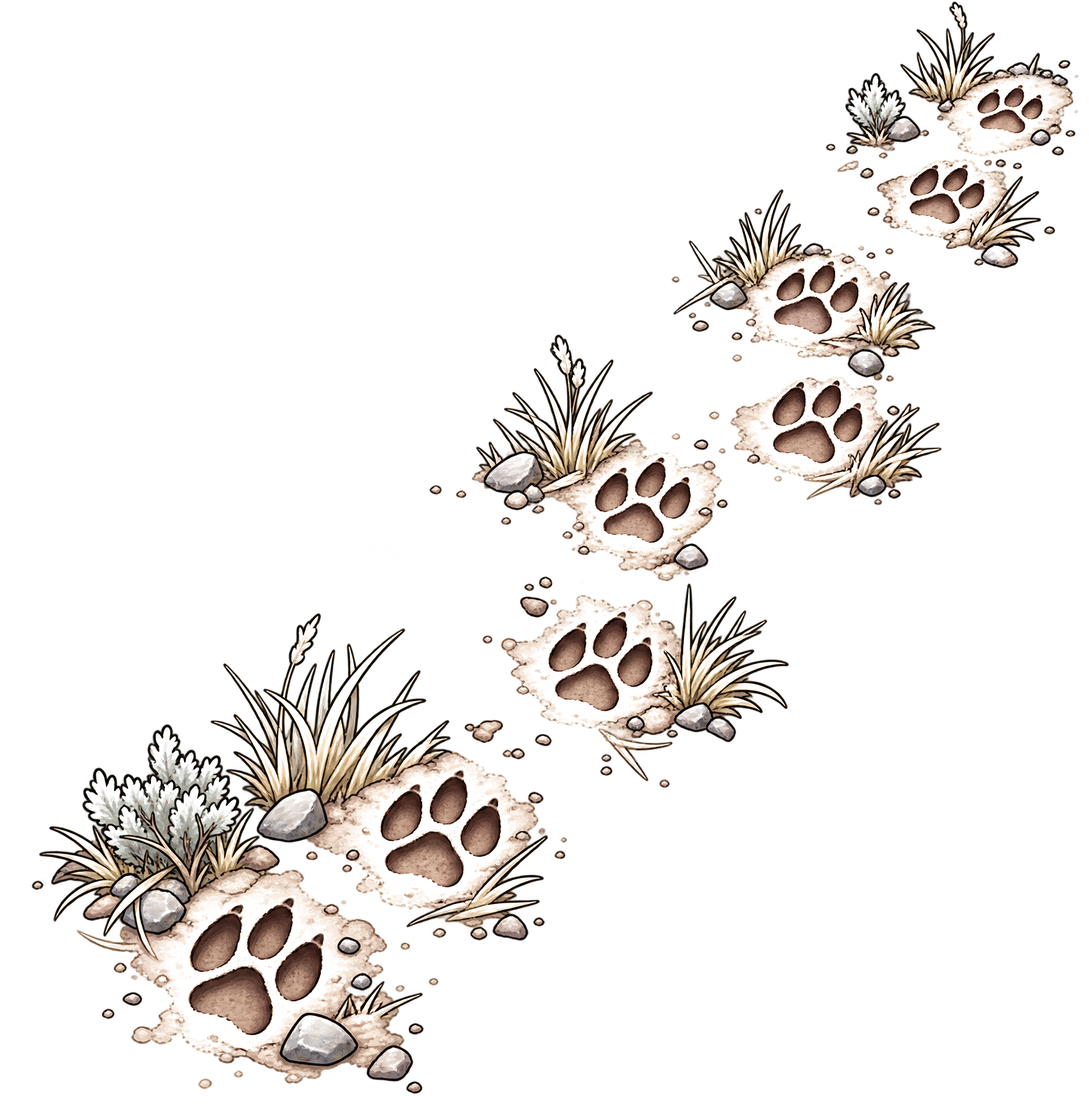
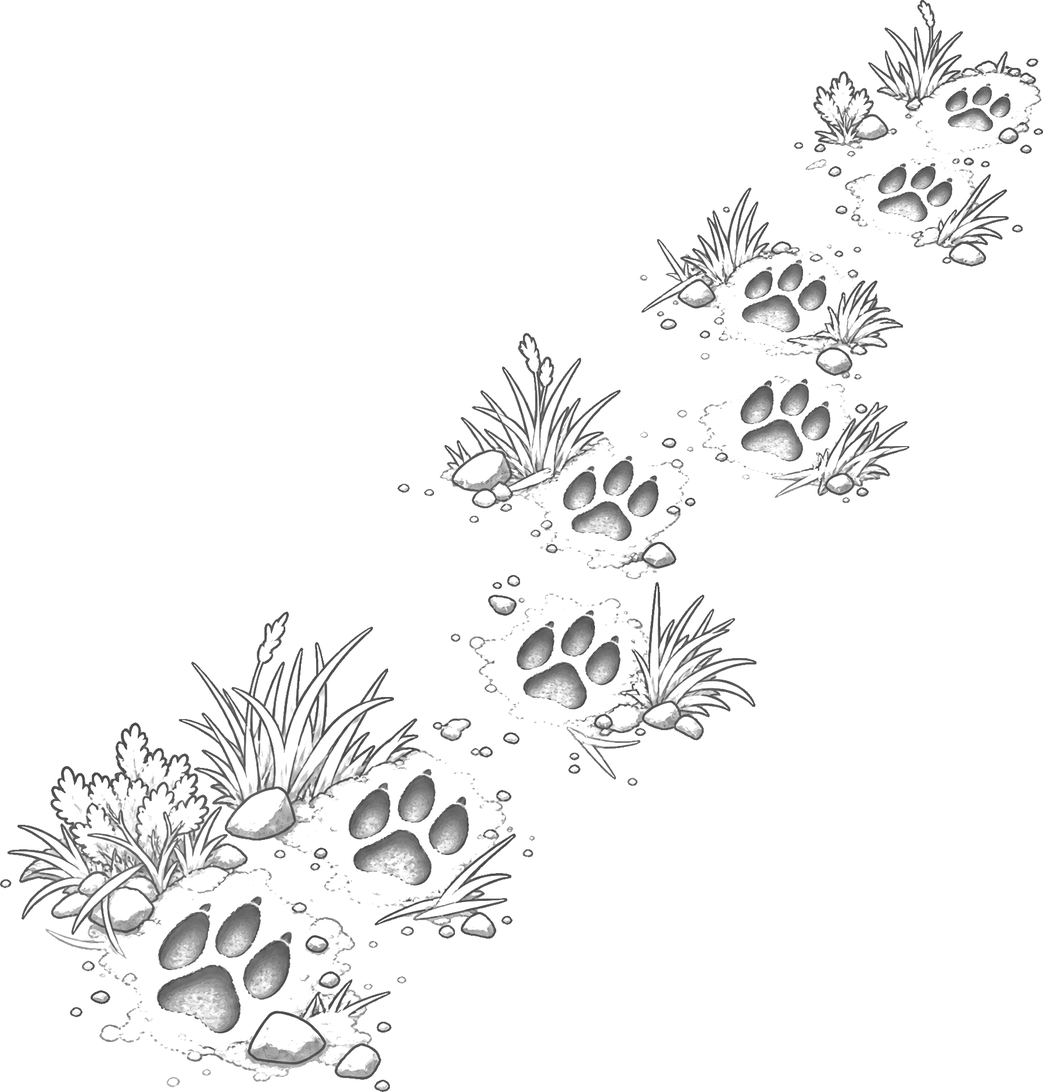
Pawprint clues: fix the multiply blend and rebuild every imprint prints-only
The imprint blend sat on the inner <img>, but .target carries opacity and
will-change, which isolates its children — so the sprite drew normally and every
pawprint clue read as a pale pasted patch. Blend moved onto .target itself.

Each *_imprint.png rebuilt with a local high-pass so only the pressed marks
survive (the painted sand/snow patch and its border stroke are gone), painted as
a pure darkening layer so it reads on snow, sand and rock. Hitboxes and anchors
recomputed so the prints keep the exact world size and position they had.

Level 3 scale pass (PM): camel bell 46->33px, sand timer 48->29px, tail keychain
45->27px, magnifier 30->18px, sketchbook 40->24px, measured against the trunk
(180px = 90cm) and the kneeling father (330px = 120cm); O8 nudged clear of fox_10.

Changed region(s): [[0.0, 0.0, 1.0, 1.0], [0.3432, 0.5553, 0.3744, 0.5862]]

diff --git a/index.html b/index.html
@@ -61,9 +61,12 @@
   /* render:"imprint" (PM 2026-09-04 「腳印要融入地面」): pawprint trails are pressed
      into the ground, not pasted on it — the sprite keeps only the dark impressions
      (imprint.py drops the light ground patch) and is multiplied onto the terrain;
-     no drop-shadow, no hidden-tier shrink, so nothing reads as a floating patch. */
-  .target.imprint{ filter:none; transform:translate(-50%,-50%); opacity:.95; }
-  .target.imprint img{ mix-blend-mode:multiply; }
+     no drop-shadow, no hidden-tier shrink, so nothing reads as a floating patch.
+     The blend must sit on .target itself: .target carries opacity/will-change,
+     which isolates its children, so a mix-blend-mode on the inner <img> would
+     blend against nothing and the sprite would show as a pale pasted patch. */
+  .target.imprint{ filter:none; transform:translate(-50%,-50%); opacity:1; mix-blend-mode:multiply; will-change:transform; }
+  .target.imprint img{ mix-blend-mode:normal; }
   .target.found{ pointer-events:none; }
 
   /* §1.2 (已拍板): found feedback = gold glow + star burst (~0.3-0.5s),
@@ -803,7 +806,7 @@
       { id:"obj_N3", target_type:"fox_object", species:"arctic_fox", sprite_asset: ASSET_DIR2_CLEAN + "N03_fox_totem_post.png", position:{x:2325,y:700}, hitbox:{width:100,height:364}, difficulty_tier:"exposed", placement_class:"ground_only", anchor_ref:"totem post driven upright into the snow near the ice cave entrance — standing on the snow floor at the foot of the cave mouth's left rim (solid base ≈ y855), right of husky 6's face box; adult-height per §2.9 (≈340 px at cave-mouth depth)", intended_scale_ref:"≈145cm，跟人物身高相若" },
       { id:"obj_N4", target_type:"fox_object", species:"arctic_fox", sprite_asset: ASSET_DIR2_CLEAN + "N04_fox_compass.png", position:{x:500,y:762}, hitbox:{width:40,height:34}, difficulty_tier:"partial", placement_class:"ground_only", anchor_ref:"lying open on top of a supply crate — on the lit top edge of the back plank of father's open supply crate, left of the mug", intended_scale_ref:"≈14cm，手掌至前臂長" },
       // ---- Tier C: partial clues (2) ----
-      { id:"clue_C1", render:"imprint", target_type:"partial_clue", species:"arctic_fox", sprite_asset: ASSET_DIR2_CLEAN + "C01_fox_pawprints_trail_imprint.png", position:{x:2470,y:950}, hitbox:{width:140,height:90}, difficulty_tier:"hidden", placement_class:"ground_only", anchor_ref:"pawprint trail leading toward the ice cave entrance — pressed into the snow between the family's bag and the cave-mouth crates, running up-right to the cave", intended_scale_ref:"≈48cm，及膝以下" },
+      { id:"clue_C1", render:"imprint", target_type:"partial_clue", species:"arctic_fox", sprite_asset: ASSET_DIR2_CLEAN + "C01_fox_pawprints_trail_imprint.png", position:{x:2470,y:948}, hitbox:{width:130,height:87}, difficulty_tier:"hidden", placement_class:"ground_only", anchor_ref:"pawprint trail leading toward the ice cave entrance — pressed into the snow between the family's bag and the cave-mouth crates, running up-right to the cave", intended_scale_ref:"≈48cm，及膝以下" },
       { id:"clue_C2", target_type:"partial_clue", species:"arctic_fox", sprite_asset: ASSET_DIR2_CLEAN + "C02_white_fox_tail_tip.png", position:{x:630,y:860}, hitbox:{width:90,height:60}, difficulty_tier:"hidden", placement_class:"ground_only", anchor_ref:"tail tip beneath a snowdrift near the cabin wall (own drift) — at the cabin's right wall base, right of father's crate under the firewood", intended_scale_ref:"≈31cm，及膝以下" }
     ]
   };
@@ -884,25 +887,25 @@
       // ---- Tier B reskin (9) — anchors PM-fixed in prompts-v3 (2) §B ----
       { id:"obj_O1", target_type:"fox_object", species:"fennec_fox", sprite_asset: ASSET_DIR3_V3_CLEAN + "find-the-fox-level3-O1-fox-face-mug.png", position:{x:330,y:1125}, hitbox:{width:45,height:45}, difficulty_tier:"exposed", placement_class:"ground_only", anchor_ref:"放喺爸爸腳邊嘅平滑沙岩石面 — on the front-left stone of the campfire ring, the smooth rock nearest father's side of the fire", intended_scale_ref:"mug ~12cm" },
       { id:"obj_O2", target_type:"fox_object", species:"fennec_fox", sprite_asset: ASSET_DIR3_V3_CLEAN + "find-the-fox-level3-O2-fox-cookie.png", position:{x:450,y:1135}, hitbox:{width:40,height:40}, difficulty_tier:"exposed", placement_class:"ground_only", anchor_ref:"放喺攤開嘅營地布上 — NOTE: the v3 background has no spread cloth at the camp; placed on the sand at the fire ring's right-front, the closest match (PM to confirm)", intended_scale_ref:"≈12cm，手掌至前臂長" },
-      { id:"obj_O3", target_type:"fox_object", species:"fennec_fox", sprite_asset: ASSET_DIR3_V3_CLEAN + "find-the-fox-level3-O3-fox-tail-keychain.png", position:{x:400,y:665}, hitbox:{width:30,height:45}, difficulty_tier:"partial", placement_class:"elevated_ok", anchor_ref:"掛喺行李袋嘅背帶扣 — clipped to the strap of the right-hand barrel pack by the rock; its own carabiner is the §2.3 connector", intended_scale_ref:"≈14cm，手掌至前臂長" },
+      { id:"obj_O3", target_type:"fox_object", species:"fennec_fox", sprite_asset: ASSET_DIR3_V3_CLEAN + "find-the-fox-level3-O3-fox-tail-keychain.png", position:{x:400,y:656}, hitbox:{width:18,height:27}, difficulty_tier:"partial", placement_class:"elevated_ok", anchor_ref:"掛喺行李袋嘅背帶扣 — clipped to the strap of the right-hand barrel pack by the rock; its own carabiner is the §2.3 connector", intended_scale_ref:"≈14cm，手掌至前臂長（2026-09-05 縮細：岩石堆深度 1.95px/cm）" },
       { id:"obj_O4", target_type:"fox_object", species:"fennec_fox", sprite_asset: ASSET_DIR3_V3_CLEAN + "find-the-fox-level3-O4-knitted-plush.png", position:{x:1095,y:1125}, hitbox:{width:55,height:60}, difficulty_tier:"exposed", placement_class:"ground_only", anchor_ref:"靠住石井邊沿坐低 — back against the well's front-left stones (moved up-right from (1075,1150), which sat on open sand a step away from the well)", intended_scale_ref:"≈18cm，手掌至前臂長" },
       { id:"obj_O5", target_type:"fox_object", species:"fennec_fox", sprite_asset: ASSET_DIR3_V3_CLEAN + "find-the-fox-level3-O5-fox-pattern-thermos.png", position:{x:1420,y:1075}, hitbox:{width:34,height:70}, difficulty_tier:"exposed", placement_class:"ground_only", anchor_ref:"企喺綠洲水池邊 — standing on the pool's near bank rocks", intended_scale_ref:"≈21cm，手掌至前臂長" },
       { id:"obj_O6", target_type:"fox_object", species:"fennec_fox", sprite_asset: ASSET_DIR3_V3_CLEAN + "find-the-fox-level3-O6-fox-salt-pepper-shakers.png", position:{x:1015,y:790}, hitbox:{width:40,height:36}, difficulty_tier:"partial", placement_class:"ground_only", anchor_ref:"塞入棕櫚樹根縫隙 — tucked into the lower edge of the shrub at the rear palm's foot (the roots themselves are hidden by the shrub; the big palm's base is occupied by mother and child, §2.7) (the big palm's base is occupied by mother and child, §2.7)", intended_scale_ref:"≈12cm，手掌至前臂長" },
       { id:"obj_O7", target_type:"fox_object", species:"fennec_fox", sprite_asset: ASSET_DIR3_V3_CLEAN + "find-the-fox-level3-O7-fox-pattern-scarf.png", position:{x:2380,y:1140}, hitbox:{width:90,height:70}, difficulty_tier:"partial", placement_class:"ground_only", anchor_ref:"搭喺破爛木頭車輪上 — draped over the leaning cart wheel's upper rim", intended_scale_ref:"≈27cm，手掌至前臂長" },
-      { id:"obj_O8", target_type:"fox_object", species:"fennec_fox", sprite_asset: ASSET_DIR3_V3_CLEAN + "find-the-fox-level3-O8-fox-wind-chime.png", position:{x:2478,y:700}, hitbox:{width:55,height:120}, difficulty_tier:"exposed", placement_class:"elevated_ok", anchor_ref:"掛喺木製燈籠柱嘅掛鉤 — its top ring on the post's awning-rope tie hook (the arm's end already carries the real lantern + fox_10)", intended_scale_ref:"chime ~36cm" },
+      { id:"obj_O8", target_type:"fox_object", species:"fennec_fox", sprite_asset: ASSET_DIR3_V3_CLEAN + "find-the-fox-level3-O8-fox-wind-chime.png", position:{x:2488,y:700}, hitbox:{width:55,height:120}, difficulty_tier:"exposed", placement_class:"elevated_ok", anchor_ref:"掛喺木製燈籠柱嘅掛鉤 — its top ring on the post's awning-rope tie hook (the arm's end already carries the real lantern + fox_10)", intended_scale_ref:"chime ~36cm" },
       { id:"obj_O9", target_type:"fox_object", species:"fennec_fox", sprite_asset: ASSET_DIR3_V3_CLEAN + "find-the-fox-level3-O9-fox-field-guide.png", position:{x:1780,y:1120}, hitbox:{width:55,height:50}, difficulty_tier:"partial", placement_class:"ground_only", anchor_ref:"半掩喺散落石堆之間 — lying beside the Zone 3 stone pile", intended_scale_ref:"≈17cm，手掌至前臂長" },
 
       // ---- Tier B desert-only (4) — anchors PM-fixed in prompts-v3 (2) §B ----
       { id:"obj_N1", target_type:"fox_object", species:"fennec_fox", sprite_asset: ASSET_DIR3_V3_CLEAN + "find-the-fox-level3-N1-astrolabe-pendant.png", position:{x:1400,y:400}, hitbox:{width:40,height:52}, difficulty_tier:"partial", placement_class:"elevated_ok", anchor_ref:"掛喺搖曳嘅棕櫚葉度 — its top ring touching the tip of the big palm's lowest right frond (raised 20px — at y445 there was a sliver of sky between ring and frond) (§2.3 connector = the frond tip)", intended_scale_ref:"≈16cm，手掌至前臂長" },
-      { id:"obj_N2", target_type:"fox_object", species:"fennec_fox", sprite_asset: ASSET_DIR3_V3_CLEAN + "find-the-fox-level3-N2-camel-bell.png", position:{x:330,y:985}, hitbox:{width:34,height:46}, difficulty_tier:"exposed", placement_class:"elevated_ok", anchor_ref:"直接掛喺休息嗰隻駱駝嘅頸繩上 — its rope loop on the resting camel's neck rope just under the jaw; the loop is the §2.3 connector", intended_scale_ref:"≈14cm，手掌至前臂長" },
+      { id:"obj_N2", target_type:"fox_object", species:"fennec_fox", sprite_asset: ASSET_DIR3_V3_CLEAN + "find-the-fox-level3-N2-camel-bell.png", position:{x:330,y:978}, hitbox:{width:24,height:33}, difficulty_tier:"exposed", placement_class:"elevated_ok", anchor_ref:"直接掛喺休息嗰隻駱駝嘅頸繩上 — its rope loop on the resting camel's neck rope just under the jaw; the loop is the §2.3 connector", intended_scale_ref:"≈14cm，手掌至前臂長" },
       { id:"obj_N3", target_type:"fox_object", species:"fennec_fox", sprite_asset: ASSET_DIR3_V3_CLEAN + "find-the-fox-level3-N3-bedouin-fox-rug.png", position:{x:1900,y:1200}, hitbox:{width:110,height:70}, difficulty_tier:"partial", placement_class:"ground_only", anchor_ref:"半埋喺舊營址嘅沙地 — on the sand at the campsite's stone-pile edge", intended_scale_ref:"≈33cm，及膝以下" },
-      { id:"obj_N4", target_type:"fox_object", species:"fennec_fox", sprite_asset: ASSET_DIR3_V3_CLEAN + "find-the-fox-level3-N4-sand-timer.png", position:{x:300,y:610}, hitbox:{width:30,height:48}, difficulty_tier:"hidden", placement_class:"ground_only", anchor_ref:"塞入行李袋背後嘅罅隙 — in the gap between the rolled tent and the barrel pack, behind the packs", intended_scale_ref:"≈15cm，手掌至前臂長" },
+      { id:"obj_N4", target_type:"fox_object", species:"fennec_fox", sprite_asset: ASSET_DIR3_V3_CLEAN + "find-the-fox-level3-N4-sand-timer.png", position:{x:300,y:626}, hitbox:{width:18,height:29}, difficulty_tier:"hidden", placement_class:"ground_only", anchor_ref:"塞入行李袋背後嘅罅隙 — in the gap between the rolled tent and the barrel pack, behind the packs", intended_scale_ref:"≈15cm，手掌至前臂長" },
 
       // ---- Tier C (3) — anchors PM-fixed in prompts-v3 (2) §C ----
       // ---- §2.2.1 explorer gear fillers — the PM-flagged low-density spot (rock outcrop, Zone 1) ----
-      { id:"obj_E1", target_type:"fox_object", species:"fennec_fox", sprite_asset: ASSET_DIR_GEAR + "E01_fox_emblem_magnifying_glass.png", position:{x:355,y:590}, hitbox:{width:34,height:30}, difficulty_tier:"exposed", placement_class:"ground_only", anchor_ref:"E1 放喺補給箱頂（岩石尖峰旁）— on the top of the big barrel pack under the rock outcrop, right of the rolled tent (first try at y558 sat on the rock face above the pack)", intended_scale_ref:"≈10cm，細過人物手掌" },
-      { id:"obj_E3", target_type:"fox_object", species:"fennec_fox", sprite_asset: ASSET_DIR_GEAR + "E03_open_field_sketchbook_fox.png", position:{x:470,y:690}, hitbox:{width:55,height:40}, difficulty_tier:"partial", placement_class:"ground_only", anchor_ref:"E3 靠住繩圈（岩石尖峰底）— NOTE: no coiled rope in the v3 painting; lying on the sand at the outcrop's foot beside the small barrel pack (PM to confirm)", intended_scale_ref:"≈17cm，手掌至前臂長" },
-      { id:"clue_C1", render:"imprint", target_type:"partial_clue", species:"fennec_fox", sprite_asset: ASSET_DIR3_V3_CLEAN + "find-the-fox-level3-C1-fox-pawprints_imprint.png", position:{x:660,y:1190}, hitbox:{width:200,height:140}, difficulty_tier:"hidden", placement_class:"ground_only", anchor_ref:"營火周圍嘅沙地 — trail on the sand right-front of the campfire", intended_scale_ref:"≈61cm，及腰" },
+      { id:"obj_E1", target_type:"fox_object", species:"fennec_fox", sprite_asset: ASSET_DIR_GEAR + "E01_fox_emblem_magnifying_glass.png", position:{x:355,y:584}, hitbox:{width:20,height:18}, difficulty_tier:"exposed", placement_class:"ground_only", anchor_ref:"E1 放喺補給箱頂（岩石尖峰旁）— on the top of the big barrel pack under the rock outcrop, right of the rolled tent (first try at y558 sat on the rock face above the pack)", intended_scale_ref:"≈10cm，細過人物手掌" },
+      { id:"obj_E3", target_type:"fox_object", species:"fennec_fox", sprite_asset: ASSET_DIR_GEAR + "E03_open_field_sketchbook_fox.png", position:{x:470,y:684}, hitbox:{width:33,height:24}, difficulty_tier:"partial", placement_class:"ground_only", anchor_ref:"E3 靠住繩圈（岩石尖峰底）— NOTE: no coiled rope in the v3 painting; lying on the sand at the outcrop's foot beside the small barrel pack (PM to confirm)", intended_scale_ref:"≈17cm，手掌至前臂長" },
+      { id:"clue_C1", render:"imprint", target_type:"partial_clue", species:"fennec_fox", sprite_asset: ASSET_DIR3_V3_CLEAN + "find-the-fox-level3-C1-fox-pawprints_imprint.png", position:{x:661,y:1190}, hitbox:{width:110,height:129}, difficulty_tier:"hidden", placement_class:"ground_only", anchor_ref:"營火周圍嘅沙地 — trail on the sand right-front of the campfire", intended_scale_ref:"≈61cm，及腰" },
       { id:"clue_C2", target_type:"partial_clue", species:"fennec_fox", sprite_asset: ASSET_DIR3_V3_CLEAN + "find-the-fox-level3-C2-fox-ear-tips.png", position:{x:1120,y:610}, hitbox:{width:50,height:40}, difficulty_tier:"hidden", placement_class:"ground_only", anchor_ref:"棕櫚樹幹背後 — ears at the big palm trunk's left edge, above mother's head (the trunk base is occupied by mother and child, §2.7)", intended_scale_ref:"≈15cm，手掌至前臂長" },
       { id:"clue_C3", target_type:"partial_clue", species:"fennec_fox", sprite_asset: ASSET_DIR3_V3_CLEAN + "find-the-fox-level3-C3-fox-tail-tip.png", position:{x:2270,y:1330}, hitbox:{width:45,height:40}, difficulty_tier:"hidden", placement_class:"ground_only", anchor_ref:"破爛木頭車輪底部 — under the fallen wheel's lower-left rim where it meets the sand", intended_scale_ref:"≈14cm，手掌至前臂長" }
     ]
@@ -1013,7 +1016,7 @@
       // ---- §2.2.1 explorer gear fillers — the PM-flagged low-density spot (shrine surroundings, Zone 2) ----
       { id:"obj_E5", target_type:"fox_object", species:"tibetan_sand_fox", sprite_asset: ASSET_DIR_GEAR + "E05_pressed_flower_album_fox_ribbon.png", position:{x:1115,y:425}, hitbox:{width:36,height:40}, difficulty_tier:"partial", placement_class:"ground_only", anchor_ref:"E5 放喺神龕邊 — leaning at the right foot of the stone shrine, on the rocks beside the mani-stone pile", intended_scale_ref:"≈25cm，手掌至前臂長" },
       { id:"obj_E6", target_type:"fox_object", species:"tibetan_sand_fox", sprite_asset: ASSET_DIR_GEAR + "E06_rolled_map_fox_wax_seal.png", position:{x:1005,y:400}, hitbox:{width:44,height:26}, difficulty_tier:"exposed", placement_class:"ground_only", anchor_ref:"E6 放喺岩石平台 — lying on the left end of the shrine's stone base slab, beside the mani-stone pile", intended_scale_ref:"≈27cm，手掌至前臂長" },
-      { id:"clue_C1", render:"imprint", target_type:"partial_clue", species:"tibetan_sand_fox", sprite_asset: ASSET_DIR4 + "C1_fox_paw_footprints (2)_imprint.png", position:{x:545,y:620}, hitbox:{width:110,height:150}, difficulty_tier:"hidden", placement_class:"ground_only", anchor_ref:"trail crossing the open dirt between the camp and the stream", intended_scale_ref:"three prints running about a metre of ground; sprite is portrait, so the box is too" },
+      { id:"clue_C1", render:"imprint", target_type:"partial_clue", species:"tibetan_sand_fox", sprite_asset: ASSET_DIR4 + "C1_fox_paw_footprints (2)_imprint.png", position:{x:542,y:620}, hitbox:{width:66,height:104}, difficulty_tier:"hidden", placement_class:"ground_only", anchor_ref:"trail crossing the open dirt between the camp and the stream", intended_scale_ref:"three prints running about a metre of ground; sprite is portrait, so the box is too" },
       { id:"clue_C2", target_type:"partial_clue", species:"tibetan_sand_fox", sprite_asset: ASSET_DIR4 + "C2_fox_tail_tip_flags (2).png", position:{x:900,y:300}, hitbox:{width:95,height:110}, difficulty_tier:"hidden", placement_class:"elevated_ok", anchor_ref:"the sprite carries its own rope, laid along the real prayer-flag line in front of the shrine so the two ropes read as one (§2.3 connector)" },
       { id:"clue_C3", target_type:"partial_clue", species:"tibetan_sand_fox", sprite_asset: ASSET_DIR4 + "C3_fox_shadow_hut_wall (3).png", position:{x:1290,y:320}, hitbox:{width:150,height:180}, difficulty_tier:"hidden", placement_class:"ground_only", anchor_ref:"its own wall slice laid onto the hut's real stone wall left of the door, base rocks landing on the real ground line; kept clear of the boy (§2.7)", intended_scale_ref:"a wall patch about the boy's height" },
       { id:"clue_C4", target_type:"partial_clue", species:"tibetan_sand_fox", sprite_asset: ASSET_DIR4 + "C4_fox_ears_fog (3).png", position:{x:1300,y:790}, hitbox:{width:240,height:170}, difficulty_tier:"hidden", placement_class:"ground_only", anchor_ref:"ears breaking the surface of the real fog bank rolling across the lower-right foreground", intended_scale_ref:"ears ~15cm, so the whole fog patch runs about 1.5m wide" }
@@ -1103,7 +1106,7 @@
       { id:"obj_N6", target_type:"fox_object", species:"corsac_fox", sprite_asset: ASSET_DIR5 + "N6_felt_fox_doll.png", position:{x:960,y:985}, hitbox:{width:55,height:55}, difficulty_tier:"partial", placement_class:"ground_only", anchor_ref:"塞入氈毯嘅摺痕 — in the rumpled left fringe of the rug" },
 
       // ---- Tier C (5) — anchors PM-fixed in prompts-v3 §C ----
-      { id:"clue_C1", render:"imprint", target_type:"partial_clue", species:"corsac_fox", sprite_asset: ASSET_DIR5 + "C1_fox_pawprints_imprint.png", position:{x:760,y:810}, hitbox:{width:130,height:90}, difficulty_tier:"hidden", placement_class:"ground_only", anchor_ref:"蒙古包門口嘅泥地 — on the dirt directly below the door step" },
+      { id:"clue_C1", render:"imprint", target_type:"partial_clue", species:"corsac_fox", sprite_asset: ASSET_DIR5 + "C1_fox_pawprints_imprint.png", position:{x:760,y:810}, hitbox:{width:84,height:88}, difficulty_tier:"hidden", placement_class:"ground_only", anchor_ref:"蒙古包門口嘅泥地 — on the dirt directly below the door step" },
       { id:"clue_C2", target_type:"partial_clue", species:"corsac_fox", sprite_asset: ASSET_DIR5 + "C2_fox_tail_tip.png", position:{x:935,y:1010}, hitbox:{width:60,height:50}, difficulty_tier:"hidden", placement_class:"ground_only", anchor_ref:"氈毯邊沿底下 — under the rug's left fringe" },
       { id:"clue_C3", target_type:"partial_clue", species:"corsac_fox", sprite_asset: ASSET_DIR5 + "C3_fox_ears_behind_rock.png", position:{x:2320,y:700}, hitbox:{width:55,height:50}, difficulty_tier:"hidden", placement_class:"ground_only", anchor_ref:"石頭背後 — ears above the top edge of the outcrop's left base boulder" },
       { id:"clue_C4", target_type:"partial_clue", species:"corsac_fox", sprite_asset: ASSET_DIR5 + "C4_fox_shadow.png", position:{x:880,y:620}, hitbox:{width:90,height:120}, difficulty_tier:"hidden", placement_class:"elevated_ok", anchor_ref:"蒙古包氈牆表面 — on the felt wall to the RIGHT of the door; the left wall is blocked by father's and the horse's heads (§2.7)" },
@@ -1190,7 +1193,7 @@
       { id:"obj_N5", target_type:"fox_object", species:"pale_fox", sprite_asset: ASSET_DIR6_CLEAN + "N05_fox_ear_feather_headdress_termite_mound.png", position:{x:2070,y:690}, hitbox:{width:80,height:60}, difficulty_tier:"hidden", placement_class:"ground_only", anchor_ref:"塞入白蟻丘背後 — at the left foot of the main mound, tucked against its base", intended_scale_ref:"≈26cm，手掌至前臂長" },
       { id:"obj_N6", target_type:"fox_object", species:"pale_fox", sprite_asset: ASSET_DIR6_CLEAN + "N06_wooden_drum_fox_pattern_baobab_roots.png", position:{x:1690,y:655}, hitbox:{width:70,height:80}, difficulty_tier:"partial", placement_class:"ground_only", anchor_ref:"靠住猴麵包樹根 — leaning on the right-hand baobab root", intended_scale_ref:"≈26cm，手掌至前臂長" },
       // ---- Tier C: partial clues (6) ----
-      { id:"clue_C1", render:"imprint", target_type:"partial_clue", species:"pale_fox", sprite_asset: ASSET_DIR6_CLEAN + "C01_fox_pawprints_red_earth_imprint.png", position:{x:420,y:1250}, hitbox:{width:150,height:100}, difficulty_tier:"hidden", placement_class:"ground_only", anchor_ref:"攤檔周圍嘅紅土地 — dust patch with prints on the earth below the grass tufts, right of the stall", intended_scale_ref:"≈48cm，及膝以下" },
+      { id:"clue_C1", render:"imprint", target_type:"partial_clue", species:"pale_fox", sprite_asset: ASSET_DIR6_CLEAN + "C01_fox_pawprints_red_earth_imprint.png", position:{x:423,y:1250}, hitbox:{width:96,height:94}, difficulty_tier:"hidden", placement_class:"ground_only", anchor_ref:"攤檔周圍嘅紅土地 — dust patch with prints on the earth below the grass tufts, right of the stall", intended_scale_ref:"≈48cm，及膝以下" },
       { id:"clue_C2", target_type:"partial_clue", species:"pale_fox", sprite_asset: ASSET_DIR6_CLEAN + "C02_oversized_fox_ears_tall_grass.png", position:{x:1640,y:700}, hitbox:{width:110,height:90}, difficulty_tier:"hidden", placement_class:"ground_only", anchor_ref:"高身金黃草叢 — its own grass on the tall golden grass behind goat 1", intended_scale_ref:"≈35cm，及膝以下" },
       { id:"clue_C3", target_type:"partial_clue", species:"pale_fox", sprite_asset: ASSET_DIR6_CLEAN + "C03_fox_tail_tip_termite_mound.png", position:{x:2230,y:700}, hitbox:{width:80,height:80}, difficulty_tier:"hidden", placement_class:"ground_only", anchor_ref:"白蟻丘表面罅隙 — its own crevice set on the main mound's lower face", intended_scale_ref:"≈26cm，手掌至前臂長" },
       { id:"clue_C4", target_type:"partial_clue", species:"pale_fox", sprite_asset: ASSET_DIR6_CLEAN + "C04_fox_shadow_cracked_mud.png", position:{x:1550,y:1290}, hitbox:{width:110,height:90}, difficulty_tier:"hidden", placement_class:"ground_only", anchor_ref:"乾裂泥地表面 — shadow on the cracked mud below the water", intended_scale_ref:"≈35cm，及膝以下" },
@@ -1267,12 +1270,12 @@
       { id:"obj_N5", target_type:"fox_object", species:"ruppells_fox", sprite_asset: ASSET_DIR7_CLEAN + "N05_fox_constellation_astrolabe.png", position:{x:1060,y:800}, hitbox:{width:40,height:40}, difficulty_tier:"hidden", placement_class:"ground_only", anchor_ref:"半埋喺廢墟旁邊嘅沙地 — in the mound sand below the left ruin wall", intended_scale_ref:"≈16cm，手掌至前臂長" },
       { id:"obj_N6", target_type:"fox_object", species:"ruppells_fox", sprite_asset: ASSET_DIR7_CLEAN + "N06_fox_spice_jar_second_fire.png", position:{x:2200,y:1170}, hitbox:{width:30,height:45}, difficulty_tier:"exposed", placement_class:"ground_only", anchor_ref:"放喺平石面近第二個火堆 — on the flat stone left of the ember fire", intended_scale_ref:"≈18cm，手掌至前臂長" },
       // ---- Tier C: partial clues (7) ----
-      { id:"clue_C1", render:"imprint", target_type:"partial_clue", species:"ruppells_fox", sprite_asset: ASSET_DIR7_CLEAN + "C01_fox_pawprints_campfire_sand_imprint.png", position:{x:380,y:1200}, hitbox:{width:150,height:100}, difficulty_tier:"hidden", placement_class:"ground_only", anchor_ref:"營火周圍嘅細沙 — dust patch with prints on the sand right of father's boots (the sand directly under the fire ring is rock)", intended_scale_ref:"≈61cm，及腰" },
+      { id:"clue_C1", render:"imprint", target_type:"partial_clue", species:"ruppells_fox", sprite_asset: ASSET_DIR7_CLEAN + "C01_fox_pawprints_campfire_sand_imprint.png", position:{x:377,y:1200}, hitbox:{width:80,height:95}, difficulty_tier:"hidden", placement_class:"ground_only", anchor_ref:"營火周圍嘅細沙 — dust patch with prints on the sand right of father's boots (the sand directly under the fire ring is rock)", intended_scale_ref:"≈61cm，及腰" },
       { id:"clue_C2", target_type:"partial_clue", species:"ruppells_fox", sprite_asset: ASSET_DIR7_CLEAN + "C02_black_white_tail_tip_archway.png", position:{x:1612,y:745}, hitbox:{width:40,height:45}, difficulty_tier:"hidden", placement_class:"ground_only", anchor_ref:"石拱門背後 — tail tip out at the outer edge of the arch's right pillar", intended_scale_ref:"≈18cm，手掌至前臂長" },
       { id:"clue_C3", target_type:"partial_clue", species:"ruppells_fox", sprite_asset: ASSET_DIR7_CLEAN + "C03_fox_shadow_jagged_rock.png", position:{x:2130,y:640}, hitbox:{width:110,height:130}, difficulty_tier:"hidden", placement_class:"elevated_ok", anchor_ref:"尖角岩石表面 — the sprite's own jagged rock (with the moon shadow) set at the foot of the rock formation", intended_scale_ref:"≈53cm，及膝以下" },
       { id:"clue_C4", target_type:"partial_clue", species:"ruppells_fox", sprite_asset: ASSET_DIR7_CLEAN + "C04_fox_ears_ruins_crack.png", position:{x:1660,y:620}, hitbox:{width:36,height:20}, difficulty_tier:"hidden", placement_class:"ground_only", anchor_ref:"廢墟牆身裂縫 — ears out of a crack in the right ruin wall", intended_scale_ref:"≈15cm，手掌至前臂長" },
       { id:"clue_C5", target_type:"partial_clue", species:"ruppells_fox", sprite_asset: ASSET_DIR7_CLEAN + "C05_fox_nose_whiskers_saddlebags.png", position:{x:805,y:945}, hitbox:{width:100,height:95}, difficulty_tier:"hidden", placement_class:"ground_only", anchor_ref:"疊起嘅鞍袋背後 — the sprite's own stacked bags overlaid on the real saddle-bag stack, nose out at its left edge", intended_scale_ref:"≈41cm，及膝以下" },
-      { id:"clue_C6", render:"imprint", target_type:"partial_clue", species:"ruppells_fox", sprite_asset: ASSET_DIR7_CLEAN + "C06_fox_pawprints_rock_crevice_imprint.png", position:{x:2000,y:690}, hitbox:{width:80,height:90}, difficulty_tier:"hidden", placement_class:"ground_only", anchor_ref:"岩石罅隙 — prints on the slope leading into the gap at the formation's base", intended_scale_ref:"≈37cm，及膝以下" },
+      { id:"clue_C6", render:"imprint", target_type:"partial_clue", species:"ruppells_fox", sprite_asset: ASSET_DIR7_CLEAN + "C06_fox_pawprints_rock_crevice_imprint.png", position:{x:1998,y:693}, hitbox:{width:56,height:77}, difficulty_tier:"hidden", placement_class:"ground_only", anchor_ref:"岩石罅隙 — prints on the slope leading into the gap at the formation's base", intended_scale_ref:"≈37cm，及膝以下" },
       { id:"clue_C7", target_type:"partial_clue", species:"ruppells_fox", sprite_asset: ASSET_DIR7_CLEAN + "C07_glowing_fox_eyes_fallen_columns.png", position:{x:1800,y:845}, hitbox:{width:100,height:70}, difficulty_tier:"hidden", placement_class:"ground_only", anchor_ref:"倒塌石柱之間嘅暗隙 — the sprite's own column pieces laid at the lower end of the leaning fallen column, eyes in the gap", intended_scale_ref:"≈41cm，及膝以下" }
     ]
   };
@@ -1347,12 +1350,12 @@
       { id:"obj_N6", target_type:"fox_object", species:"blanfords_fox", sprite_asset: ASSET_DIR8_CLEAN + "N06_climbing_backpack_fox_charm.png", position:{x:555,y:1145}, hitbox:{width:64,height:90}, difficulty_tier:"exposed", placement_class:"ground_only", anchor_ref:"靠住物資木箱 — leaning on the right side of the right-hand supply crate", intended_scale_ref:"≈37cm，及膝以下" },
       { id:"obj_N7", target_type:"fox_object", species:"blanfords_fox", sprite_asset: ASSET_DIR8_CLEAN + "N07_twilight_bell_fox_etching.png", position:{x:2215,y:265}, hitbox:{width:34,height:50}, difficulty_tier:"partial", placement_class:"elevated_ok", anchor_ref:"掛喺石拱下面 — hanging from the arch's inner curve right of the chime; its own ring is the connector", intended_scale_ref:"≈20cm，手掌至前臂長" },
       // ---- Tier C: partial clues (8) ----
-      { id:"clue_C1", render:"imprint", target_type:"partial_clue", species:"blanfords_fox", sprite_asset: ASSET_DIR8_CLEAN + "C01_fox_pawprints_campfire_dust_imprint.png", position:{x:140,y:1185}, hitbox:{width:170,height:110}, difficulty_tier:"hidden", placement_class:"ground_only", anchor_ref:"營火周圍嘅塵土地 — dust patch with prints on the ground right of the fire ring", intended_scale_ref:"≈69cm，及腰" },
+      { id:"clue_C1", render:"imprint", target_type:"partial_clue", species:"blanfords_fox", sprite_asset: ASSET_DIR8_CLEAN + "C01_fox_pawprints_campfire_dust_imprint.png", position:{x:137,y:1201}, hitbox:{width:77,height:71}, difficulty_tier:"hidden", placement_class:"ground_only", anchor_ref:"營火周圍嘅塵土地 — dust patch with prints on the ground right of the fire ring", intended_scale_ref:"≈69cm，及腰" },
       { id:"clue_C2", target_type:"partial_clue", species:"blanfords_fox", sprite_asset: ASSET_DIR8_CLEAN + "C02_long_fox_tail_tip_ledge.png", position:{x:1440,y:1210}, hitbox:{width:45,height:52}, difficulty_tier:"hidden", placement_class:"ground_only", anchor_ref:"岩台邊沿背後 — tail tip against the foot of the ledge's right-front face — the fox is behind/under the ledge lip", intended_scale_ref:"≈21cm，手掌至前臂長" },
       { id:"clue_C3", target_type:"partial_clue", species:"blanfords_fox", sprite_asset: ASSET_DIR8_CLEAN + "C03_fox_shadow_cliff_face.png", position:{x:1960,y:620}, hitbox:{width:90,height:110}, difficulty_tier:"hidden", placement_class:"elevated_ok", anchor_ref:"崖壁表面 — twilight shadow cast on the plateau's cliff wall right of the carving", intended_scale_ref:"≈45cm，及膝以下" },
       { id:"clue_C4", target_type:"partial_clue", species:"blanfords_fox", sprite_asset: ASSET_DIR8_CLEAN + "C04_fox_ears_crevice.png", position:{x:1165,y:600}, hitbox:{width:40,height:22}, difficulty_tier:"hidden", placement_class:"ground_only", anchor_ref:"窄岩縫 — ears poking out of the crack at the top of the central cliff block", intended_scale_ref:"≈16cm，手掌至前臂長" },
       { id:"clue_C5", target_type:"partial_clue", species:"blanfords_fox", sprite_asset: ASSET_DIR8_CLEAN + "C05_fox_nose_whiskers_crate.png", position:{x:955,y:940}, hitbox:{width:40,height:35}, difficulty_tier:"hidden", placement_class:"ground_only", anchor_ref:"物資木箱背後 — nose out at the right edge of the crate with the blue can (sprite is cut on its left, so the crate is on its left)", intended_scale_ref:"≈16cm，手掌至前臂長" },
-      { id:"clue_C6", render:"imprint", target_type:"partial_clue", species:"blanfords_fox", sprite_asset: ASSET_DIR8_CLEAN + "C06_fox_pawprints_plateau_edge_imprint.png", position:{x:2040,y:515}, hitbox:{width:150,height:90}, difficulty_tier:"hidden", placement_class:"ground_only", anchor_ref:"崖頂平台邊緣 — prints along the cliff-top platform's front edge below the arch", intended_scale_ref:"≈61cm，及腰" },
+      { id:"clue_C6", render:"imprint", target_type:"partial_clue", species:"blanfords_fox", sprite_asset: ASSET_DIR8_CLEAN + "C06_fox_pawprints_plateau_edge_imprint.png", position:{x:2040,y:515}, hitbox:{width:70,height:85}, difficulty_tier:"hidden", placement_class:"ground_only", anchor_ref:"崖頂平台邊緣 — prints along the cliff-top platform's front edge below the arch", intended_scale_ref:"≈61cm，及腰" },
       { id:"clue_C7", target_type:"partial_clue", species:"blanfords_fox", sprite_asset: ASSET_DIR8_CLEAN + "C07_glowing_fox_eyes_rock_gap.png", position:{x:1490,y:1175}, hitbox:{width:45,height:28}, difficulty_tier:"hidden", placement_class:"ground_only", anchor_ref:"岩石之間嘅暗隙 — glowing eyes in the dark gap at the ledge's right-front corner", intended_scale_ref:"≈18cm，手掌至前臂長" },
       { id:"clue_C8", target_type:"partial_clue", species:"blanfords_fox", sprite_asset: ASSET_DIR8_CLEAN + "C08_fox_tail_tip_folded_tent.png", position:{x:700,y:995}, hitbox:{width:60,height:35}, difficulty_tier:"hidden", placement_class:"ground_only", anchor_ref:"摺好嘅帳篷底下 — tail tip out from under the bottom edge of the leaning folded tent", intended_scale_ref:"≈24cm，手掌至前臂長" }
     ]
